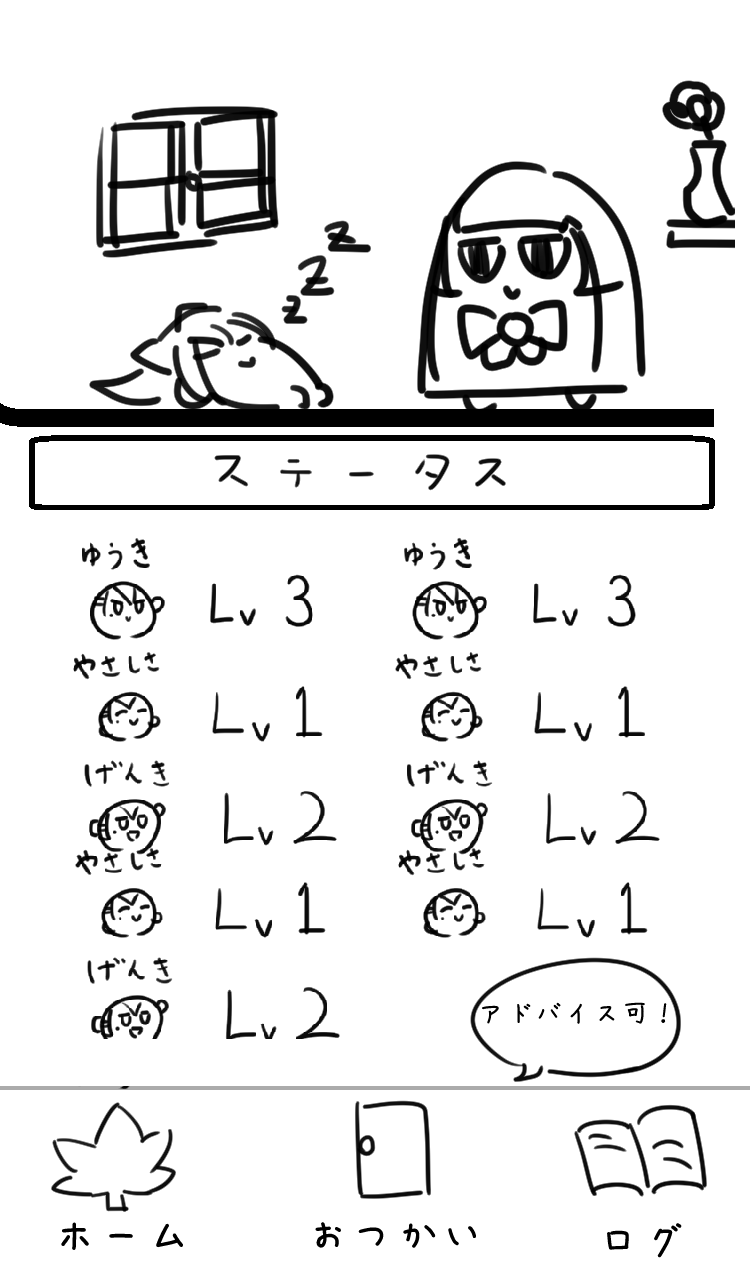
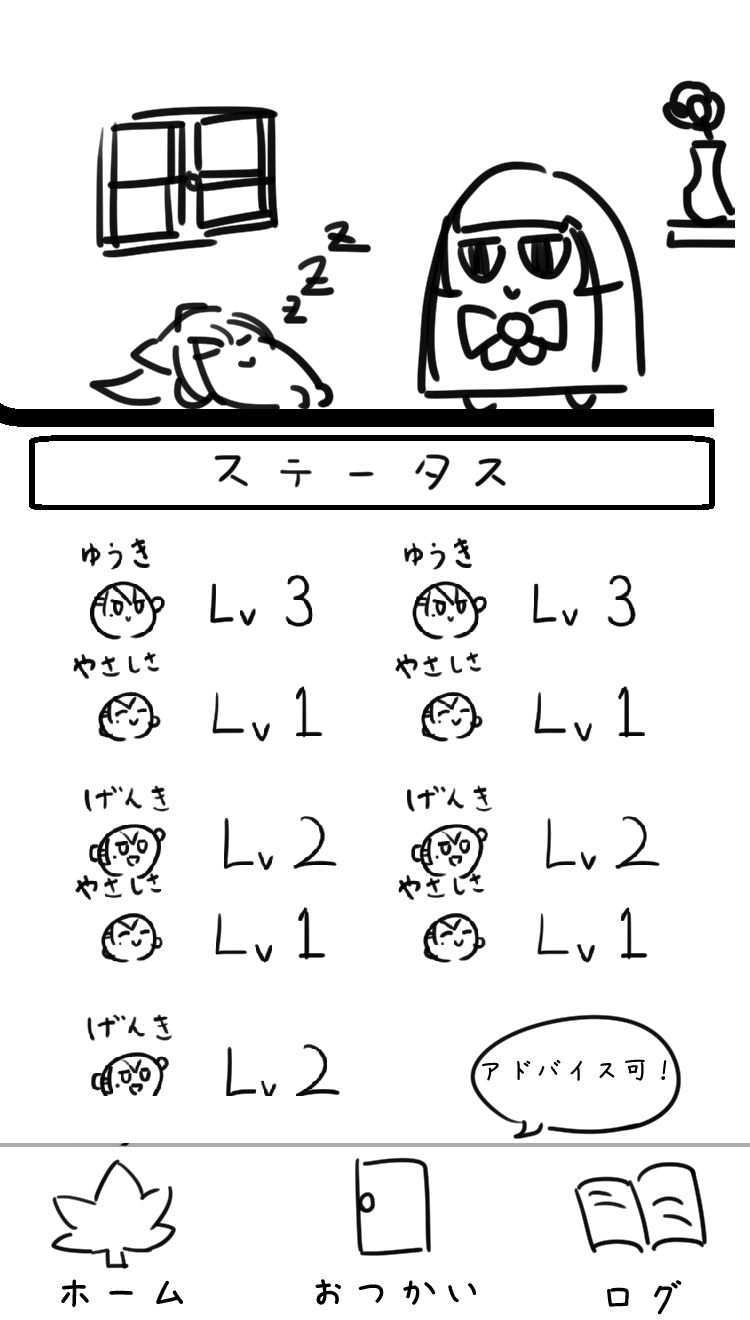
Add files via upload

diff --git a/game9/app.html b/game9/app.html
@@ -42,6 +42,8 @@
       integrity="sha384-GJzZqFGwb1QTTN6wy59ffF1BuGJpLSa9DkKMp0DgiMDm4iYMj70gZWKYbI706tWS"
       crossorigin="anonymous"
     />
+    <!-- Jq -->
+    <script src="https://code.jquery.com/jquery-3.5.1.min.js"></script>
     <!--CSS-->
     <link rel="stylesheet" href="app.css" />
     <link
@@ -64,9 +66,9 @@
   <body>
     <div id="center">
       <div id="bace">
-        <canvas id="canvas1" width="750" height="1275"></canvas>
-        <canvas id="canvas2" width="750" height="1275"></canvas>
-        <canvas id="canvas0" width="750" height="1275"></canvas>
+        <canvas id="canvas1" width="750" height="1320"></canvas>
+        <canvas id="canvas2" width="750" height="1320"></canvas>
+        <canvas id="canvas0" width="750" height="1320"></canvas>
       </div>
     </div>
     <div class="tweet-area" id="tweet-area"></div>

diff --git a/game9/app.css b/game9/app.css
@@ -1,5 +1,5 @@
 body {
-  background-color: #4adfe4;
+  background-color: hsl(39, 100%, 77%);
   text-align: left;
   margin-right: auto;
   margin-left: auto;
@@ -12,14 +12,15 @@ body {
 }
 
 #center{
-  
+  height: 100vh;
+  width: 100vw;
+  display: flex;
+  justify-content: center;
+  align-items: center;
 }
 
 #bace{
   position: absolute;
-  height: 170vw;
-  width: 100vw;
-  top:50%;
 }
 canvas{
   position: absolute;

diff --git a/game9/main.js b/game9/main.js
@@ -1,4 +1,11 @@
 "use strict";
+$(document).ready(function(){
+  if(window.innerWidth >= window.innerHeight){
+    $('#bace').css({'height':'100vh','width':'57vh'});
+  }else{
+    $('#bace').css({'height':'176vw','width':'100vw'});
+  }
+});
 //var canvas = document.getElementById('maincanvas');
 const canvas = {
   0: document.getElementById("canvas1"),
